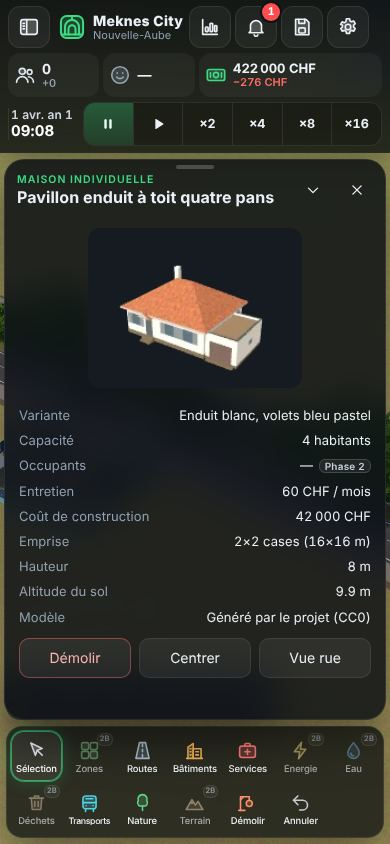
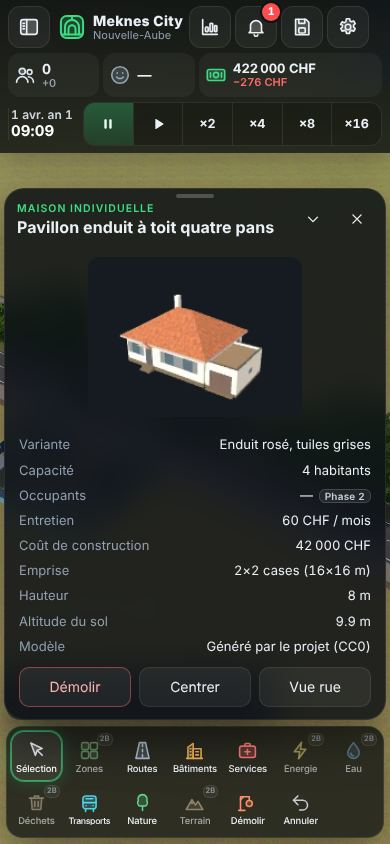
iPhone : fiche d'information posée au-dessus des outils, à hauteur de son contenu
La fiche d'une route ou d'un bâtiment occupait tout l'écran et masquait l'objet sélectionné.

Claude-Session: https://claude.ai/code/session_01KGPYpQuwVhGY5RRaf53gW8

diff --git a/city-builder/src/ui/styles.css b/city-builder/src/ui/styles.css
@@ -543,6 +543,8 @@ canvas.chart { width: 100%; height: 160px; display: block; touch-action: none; }
   .panel { left: max(4px, var(--safe-l)); right: max(4px, var(--safe-r)); width: auto; top: calc(var(--hud-h) + 6px); bottom: calc(var(--tb-h) + 6px); max-height: none;
     border-radius: 20px; animation: sheet-in .26s cubic-bezier(.2,.8,.2,1); }
   .panel.folded { bottom: auto; }
+  /* Fiche d'un objet : à hauteur de son contenu, posée au-dessus des outils ; l'objet sélectionné reste visible. */
+  #info-panel:not(.folded) { top: auto; max-height: calc(100dvh - var(--hud-h) - var(--tb-h) - 12px); }
   .panel-head { padding: 10px 8px 8px 12px; }
   .panel-head h3 { font-size: 16px; }
   .panel-head::before { content: ''; position: absolute; left: 50%; top: 5px; width: 38px; height: 4px; margin-left: -19px; border-radius: 2px; background: rgba(255,255,255,.22); }

diff --git a/city-builder/docs/captures-qa-affichage/README.md b/city-builder/docs/captures-qa-affichage/README.md
@@ -9,3 +9,11 @@ Banc : `node tests/e2e/qa-affichage.mjs [iphone|paysage|desktop|all] <préfixe>`
 | Bouton « ⚡ Énergie » sur les cartes du tiroir | `avant-iphone-04-batiments.jpg` | `apres-iphone-04-batiments.jpg` |
 | Route sur la plage en dalle | `avant-plage-proche.jpg` | `apres-plage-proche.jpg` |
 | Barre du haut hors écran (démo, ordinateur) | `avant-desktop-20-demo.jpg` | `apres-desktop-20-demo.jpg` |
+| Arbres granuleux en vue haute (imposteurs) | `avant-iphone-18-vue-haute.jpg` | `apres-iphone-18-vue-haute.jpg` |
+| Fiche d'information plein écran, vignette floue | `avant-iphone-12-info-route.jpg` | `apres-iphone-11-info-batiment.jpg`, `apres-iphone-12-info-route.jpg` |
+| Note du tiroir Routes coupée | `avant-iphone-05-routes.jpg` | `apres-iphone-05-routes.jpg` |
+| Consigne d'outil coupée (ordinateur) | `avant-desktop-10-placement.jpg` | `apres-desktop-10-placement.jpg` |
+| Paysage (iPhone 17 Pro 874×402) | — | `apres-paysage-*.jpg` |
+
+Arbres sur les routes : `node tests/e2e/qa-arbres-routes.mjs` (avant : 4 arbres sur la chaussée après 4 routes, et
+encore 4 après chargement de la sauvegarde ; après : 0, démo comprise).
